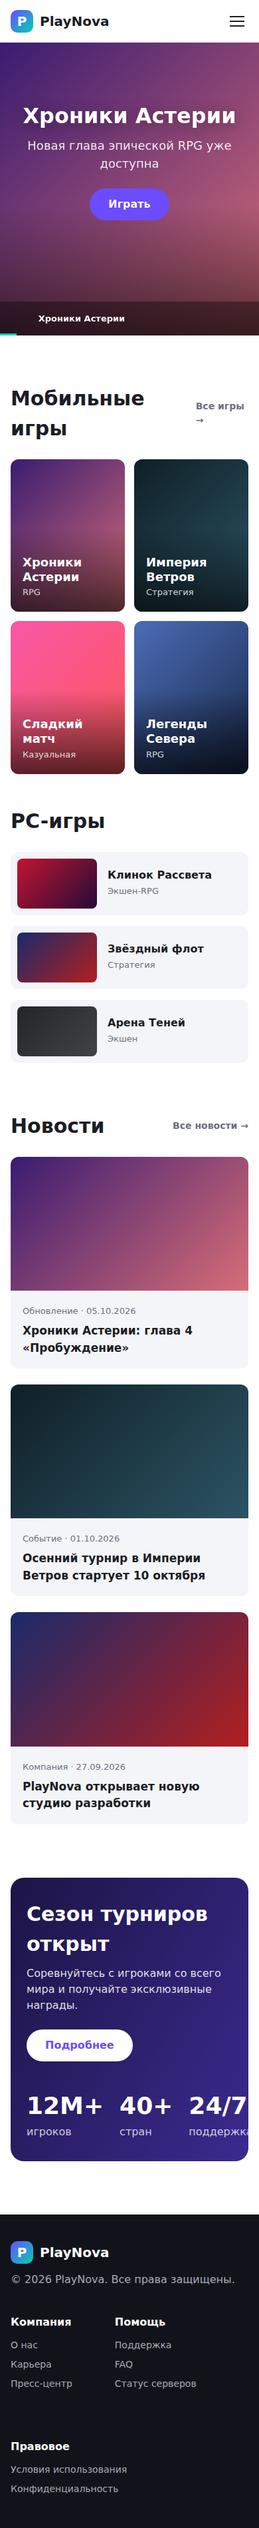
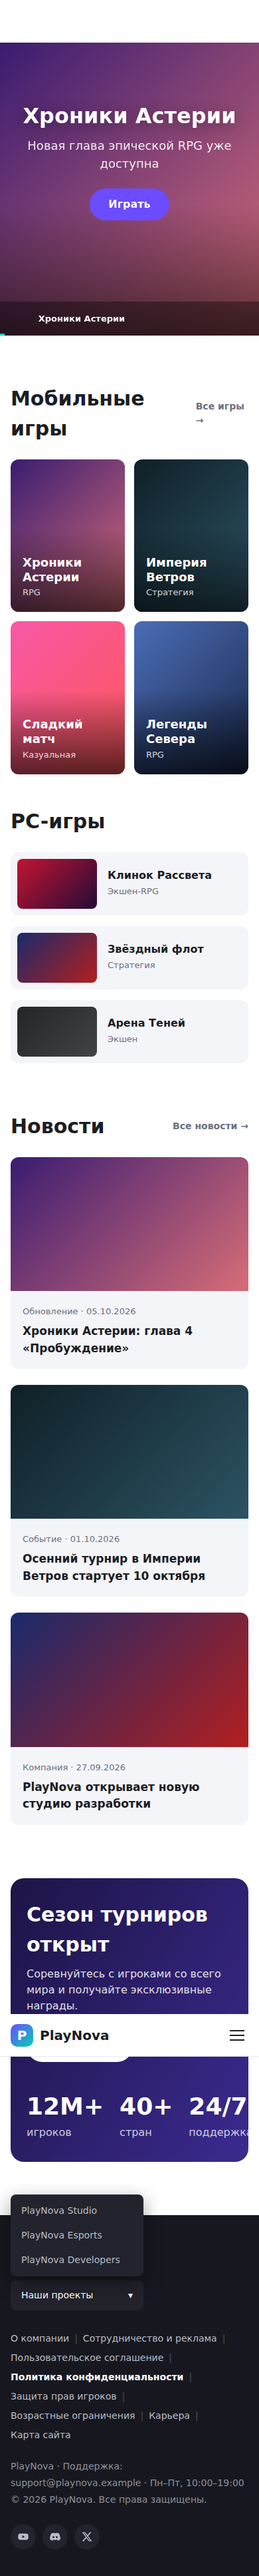
Add footer with link bar, projects dropdown and social links
Claude-Session: https://claude.ai/code/session_01KLWTuWTJw8o1LCNwXfdDpu

diff --git a/index.html b/index.html
@@ -64,14 +64,35 @@
 
     <footer class="footer" id="support">
       <div class="footer__inner">
-        <div>
+        <div class="footer__top">
           <a href="#" class="logo logo--light"><span class="logo__mark">P</span><span class="logo__text">PlayNova</span></a>
+          <div class="footer__family">
+            <button class="family__btn" id="familyBtn" aria-expanded="false">Наши проекты <span>▾</span></button>
+            <ul class="family__list" id="familyList">
+              <li><a href="#">PlayNova Studio</a></li>
+              <li><a href="#">PlayNova Esports</a></li>
+              <li><a href="#">PlayNova Developers</a></li>
+            </ul>
+          </div>
+        </div>
+        <nav class="footer__links">
+          <a href="#">О компании</a>
+          <a href="#">Сотрудничество и реклама</a>
+          <a href="#">Пользовательское соглашение</a>
+          <a href="#" class="is-strong">Политика конфиденциальности</a>
+          <a href="#">Защита прав игроков</a>
+          <a href="#">Возрастные ограничения</a>
+          <a href="#">Карьера</a>
+          <a href="#">Карта сайта</a>
+        </nav>
+        <div class="footer__info">
+          <p>PlayNova · Поддержка: support@playnova.example · Пн–Пт, 10:00–19:00</p>
           <p>© 2026 PlayNova. Все права защищены.</p>
         </div>
-        <div class="footer__cols">
-          <div><h4>Компания</h4><a href="#">О нас</a><a href="#">Карьера</a><a href="#">Пресс-центр</a></div>
-          <div><h4>Помощь</h4><a href="#">Поддержка</a><a href="#">FAQ</a><a href="#">Статус серверов</a></div>
-          <div><h4>Правовое</h4><a href="#">Условия использования</a><a href="#">Конфиденциальность</a></div>
+        <div class="footer__social">
+          <a href="#" aria-label="YouTube"><svg viewBox="0 0 24 24"><path d="M22 8.2a3 3 0 0 0-2.1-2.1C18 5.6 12 5.6 12 5.6s-6 0-7.9.5A3 3 0 0 0 2 8.2 31 31 0 0 0 1.6 12 31 31 0 0 0 2 15.8a3 3 0 0 0 2.1 2.1c1.9.5 7.9.5 7.9.5s6 0 7.9-.5a3 3 0 0 0 2.1-2.1 31 31 0 0 0 .4-3.8 31 31 0 0 0-.4-3.8zM10 15V9l5.2 3z"/></svg></a>
+          <a href="#" aria-label="Discord"><svg viewBox="0 0 24 24"><path d="M19.3 5.3A17 17 0 0 0 15 4l-.5 1a16 16 0 0 0-5 0L9 4a17 17 0 0 0-4.3 1.3C2 9.4 1.3 13.4 1.6 17.3A17 17 0 0 0 6.9 20l1.1-1.6a11 11 0 0 1-1.7-.8l.4-.3a12 12 0 0 0 10.6 0l.4.3a11 11 0 0 1-1.7.8l1.1 1.6a17 17 0 0 0 5.3-2.7c.4-4.5-.7-8.5-3.1-12zM8.7 14.9c-1 0-1.9-1-1.9-2.1s.8-2.1 1.9-2.1 1.9 1 1.9 2.1-.8 2.1-1.9 2.1zm6.6 0c-1 0-1.9-1-1.9-2.1s.8-2.1 1.9-2.1 1.9 1 1.9 2.1-.8 2.1-1.9 2.1z"/></svg></a>
+          <a href="#" aria-label="X"><svg viewBox="0 0 24 24"><path d="M17.8 3h3.1l-6.8 7.8L22 21h-6.2l-4.9-6.4L5.3 21H2.2l7.3-8.3L2 3h6.4l4.4 5.8zm-1.1 16.2h1.7L7.4 4.7H5.6z"/></svg></a>
         </div>
       </div>
     </footer>

diff --git a/css/style.css b/css/style.css
@@ -91,12 +91,27 @@ button { font: inherit; cursor: pointer; border: 0; background: none; color: inh
 .events__stats span { opacity: .75; }
 
 /* Подвал */
-.footer { background: var(--dark); color: #a8abb8; padding: 56px 48px; }
-.footer__inner { max-width: 1304px; margin: 0 auto; display: flex; justify-content: space-between; gap: 40px; flex-wrap: wrap; }
-.footer__cols { display: flex; gap: 64px; flex-wrap: wrap; }
-.footer h4 { color: #fff; margin-bottom: 12px; }
-.footer__cols a { display: block; margin-bottom: 8px; font-size: 14px; }
-.footer__cols a:hover { color: #fff; }
+.footer { background: #17181f; color: #8d909c; padding: 56px 48px 64px; font-size: 14px; }
+.footer__inner { max-width: 1304px; margin: 0 auto; }
+.footer__top { display: flex; align-items: center; justify-content: space-between; gap: 24px; margin-bottom: 32px; }
+.footer .logo { margin-bottom: 0; }
+.footer__family { position: relative; }
+.family__btn { min-width: 200px; display: flex; justify-content: space-between; padding: 12px 16px; border-radius: 8px; background: #22232c; color: #b9bcc7; }
+.family__btn:hover { color: #fff; }
+.family__list { display: none; position: absolute; right: 0; bottom: calc(100% + 6px); min-width: 100%; list-style: none; padding: 6px; border-radius: 8px; background: #22232c; box-shadow: 0 10px 30px rgba(0,0,0,.4); }
+.family__list.is-open { display: block; }
+.family__list a { display: block; padding: 8px 10px; border-radius: 6px; color: #b9bcc7; }
+.family__list a:hover { background: #2d2e38; color: #fff; }
+.footer__links { display: flex; flex-wrap: wrap; row-gap: 8px; }
+.footer__links a { color: #b9bcc7; }
+.footer__links a:hover { color: #fff; }
+.footer__links a.is-strong { color: #fff; font-weight: 700; }
+.footer__links a:not(:last-child)::after { content: "|"; margin: 0 14px; color: #4a4c58; font-weight: 400; }
+.footer__info { margin-top: 24px; line-height: 1.8; }
+.footer__social { display: flex; gap: 10px; margin-top: 24px; }
+.footer__social a { display: grid; place-items: center; width: 38px; height: 38px; border-radius: 50%; background: #22232c; color: #b9bcc7; }
+.footer__social a:hover { background: var(--accent); color: #fff; }
+.footer__social svg { width: 18px; height: 18px; fill: currentColor; }
 
 /* Адаптив */
 @media (max-width: 1200px) {
@@ -120,6 +135,8 @@ button { font: inherit; cursor: pointer; border: 0; background: none; color: inh
   .events { flex-direction: column; align-items: flex-start; padding: 32px 24px; }
   .events__stats { gap: 24px; }
   .footer { padding: 40px 16px; }
+  .footer__top { flex-direction: column; align-items: flex-start; }
+  .footer__links a:not(:last-child)::after { margin: 0 8px; }
 }
 @media (max-width: 560px) {
   .hero__tab:not(.is-active) span { font-size: 0; }

diff --git a/js/main.js b/js/main.js
@@ -77,3 +77,16 @@ NEWS.forEach((n) => {
 document.getElementById("burger").addEventListener("click", () => {
   document.getElementById("nav").classList.toggle("is-open");
 });
+
+// Выпадающий список «Наши проекты»
+const familyBtn = document.getElementById("familyBtn");
+const familyList = document.getElementById("familyList");
+familyBtn.addEventListener("click", (e) => {
+  e.stopPropagation();
+  const open = familyList.classList.toggle("is-open");
+  familyBtn.setAttribute("aria-expanded", open);
+});
+document.addEventListener("click", () => {
+  familyList.classList.remove("is-open");
+  familyBtn.setAttribute("aria-expanded", false);
+});
